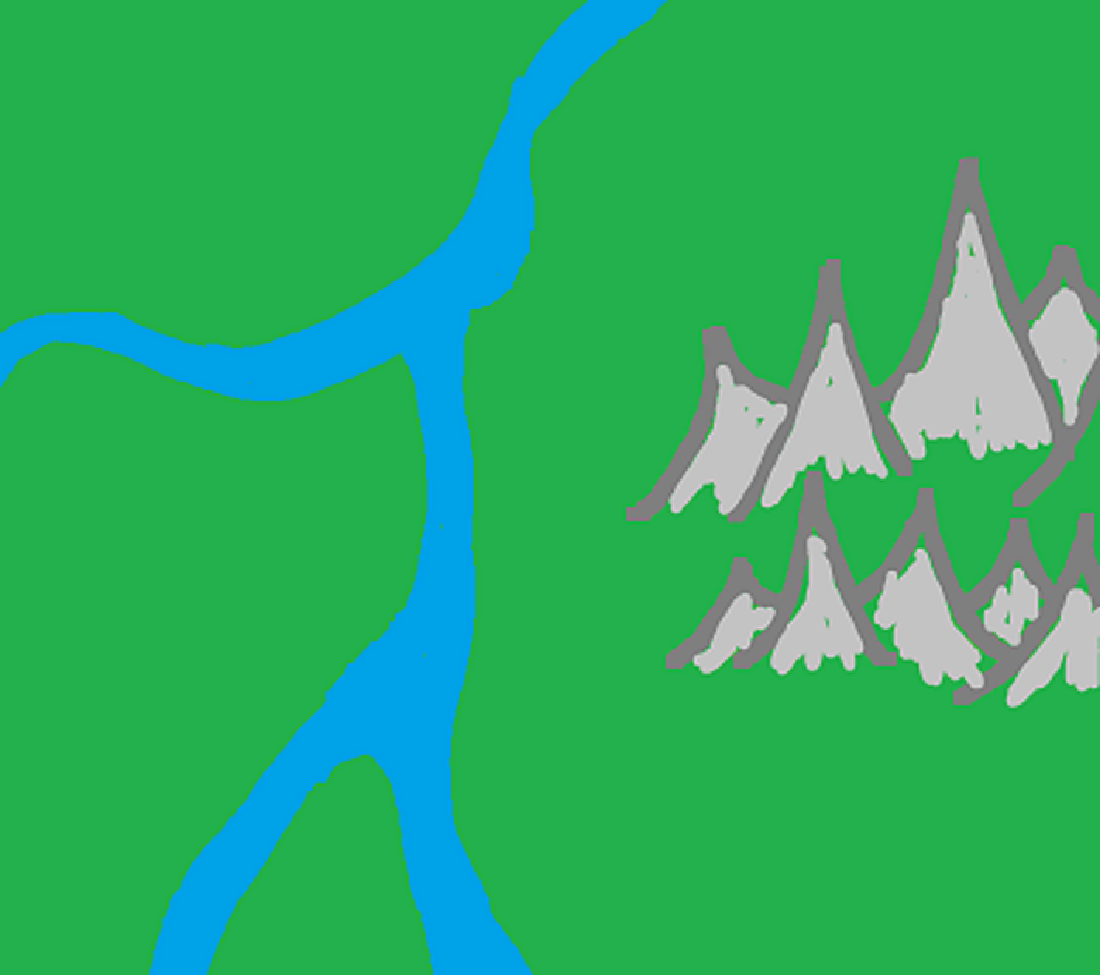
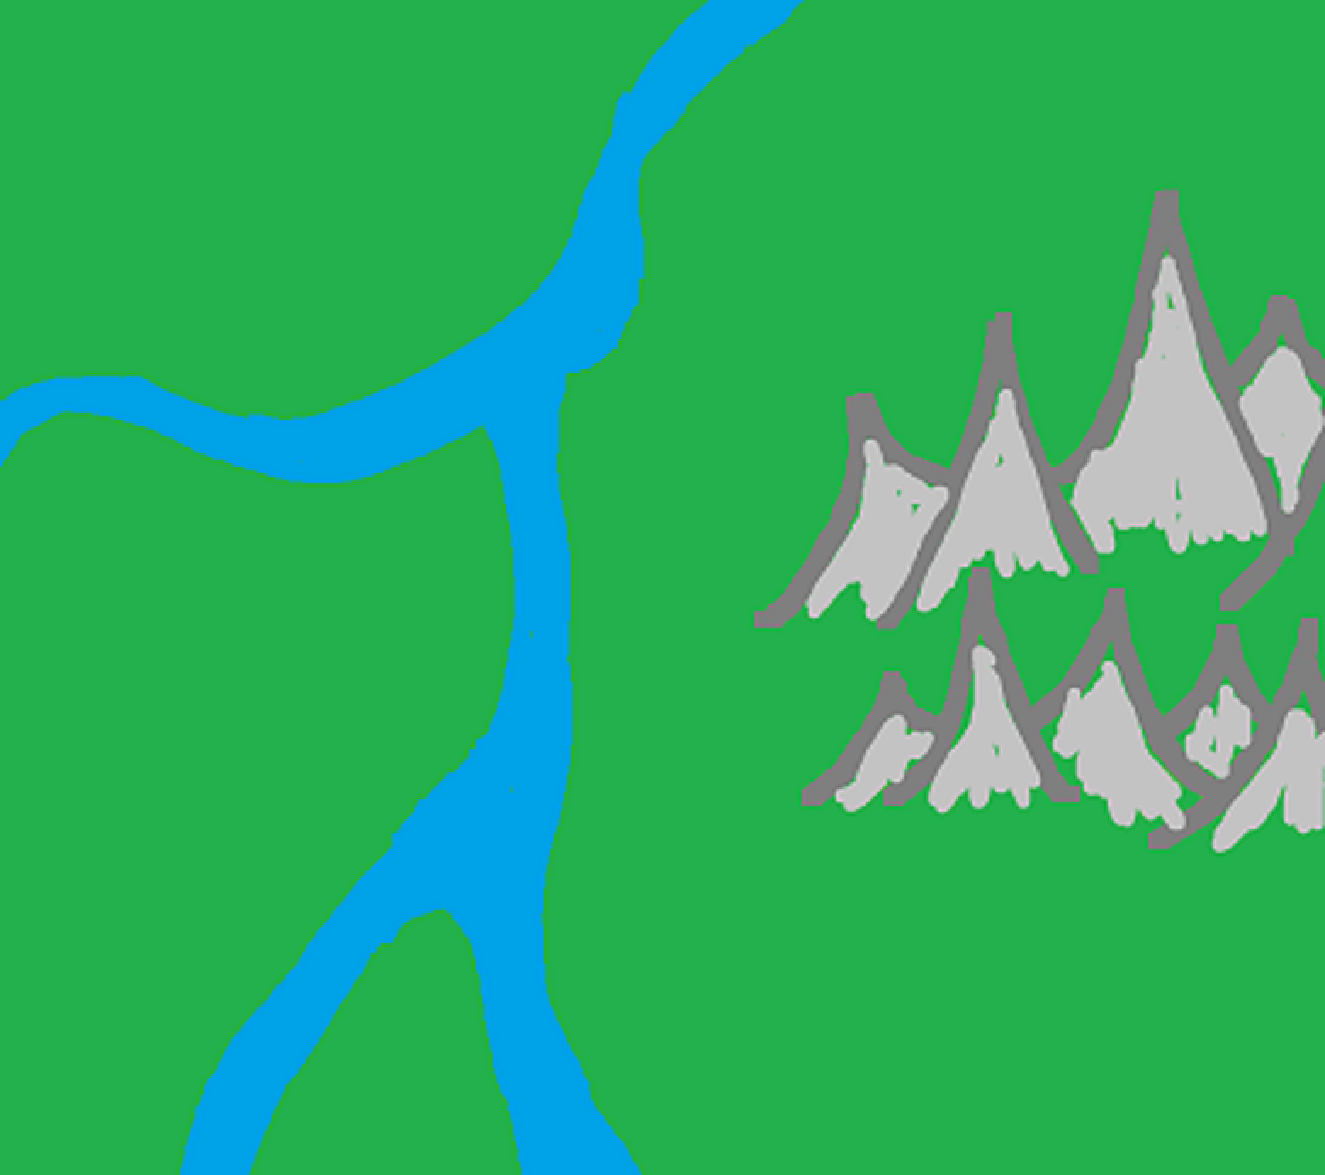
trying to fix zooming: the key listener fixes the map to proper proportions, but not at the same time as zooming.  Pressing + or - changes the size of the tiles but not the map, another key must be pressed.  A chunk of the map is lost each zoom, but is fixed if the player scrolls all the way to the 

diff --git a/src/RPG/RPGApp.java b/src/RPG/RPGApp.java
@@ -153,7 +153,7 @@ public class RPGApp extends JFrame {
 		public void actionPerformed(ActionEvent e) {
 			// System.out.println("scroll" + startX + " "+startY);
 			checkMoveCamera();
-			buildVisibleGrid();
+			buildVisibleGrid(startX, startY);
 
 			add(grid);
 			refreshGrid();
@@ -214,7 +214,7 @@ public class RPGApp extends JFrame {
 				// grid.add(array[n][j]);
 			}
 		}
-		buildVisibleGrid();
+		buildVisibleGrid(startX, startY);
 
 		repaint();
 	}
@@ -292,7 +292,7 @@ public class RPGApp extends JFrame {
 		}
 		
 		reader.close();
-		buildVisibleGrid();
+		buildVisibleGrid(startX, startY);
 
 		repaint();
 	}
@@ -320,7 +320,7 @@ public class RPGApp extends JFrame {
 	/**
 	 * Builds the grid/camera
 	 */
-	public void buildVisibleGrid() {
+	public void buildVisibleGrid(int x, int y) {
 		grid.removeAll();
 
 		if (currentSize > array.length) { // this will be relevant if we can get
@@ -333,8 +333,8 @@ public class RPGApp extends JFrame {
 
 		grid.setLayout(new GridLayout(currentSize, currentSize));
 
-		for (int i = startY; i < currentSize + startY; i++)
-			for (int h = startX; h < currentSize + startX; h++)
+		for (int i = y; i < currentSize + y; i++)
+			for (int h = x; h < currentSize + x; h++)
 				grid.add(array[i][h]);
 
 	}
@@ -1697,6 +1697,22 @@ public class RPGApp extends JFrame {
 	
 	private class Zoom implements KeyListener
 	{
+		
+		private ActionListener ZoomFixItListener = new ActionListener(){
+			public void actionPerformed(ActionEvent e){
+				try {
+					mapImage = resizeImage("Art\\Maps\\" + levelName, array.length * array[startY][startX].getWidth(), 
+							array[0].length*array[startY][startX].getHeight());
+				} catch (Exception e1) {
+					e1.printStackTrace();
+				}
+				
+				zoomCorrectionTimer.stop();
+			}
+			
+		};
+		
+		private Timer zoomCorrectionTimer = new Timer(200, ZoomFixItListener);
 
 		@Override
 		public void keyPressed(KeyEvent e) {
@@ -1709,7 +1725,7 @@ public class RPGApp extends JFrame {
 			// TODO Auto-generated method stub
 			
 		}
-
+		
 		@Override
 		public void keyTyped(KeyEvent e) {
 			System.out.println(e.getKeyChar());
@@ -1718,14 +1734,20 @@ public class RPGApp extends JFrame {
 			
 			if(e.getKeyChar() == '+')
 				Zoom(currentSize-1);
+					
 			
 			try {
-				mapImage = resizeImage("Art\\Maps\\" + levelName, array.length * array[startY][startX].getWidth(), 
+				mapImage = resizeImage("Art\\Maps\\" + levelName, (array.length) * array[startY][startX].getWidth(), 
 						array[0].length*array[startY][startX].getHeight());
 			} catch (Exception e1) {
-				// TODO Auto-generated catch block
 				e1.printStackTrace();
 			}
+			
+			buildVisibleGrid(0,0);
+			buildVisibleGrid(startX, startY);
+			
+			
+		//	zoomCorrectionTimer.start();
 		}
 		
 	}
